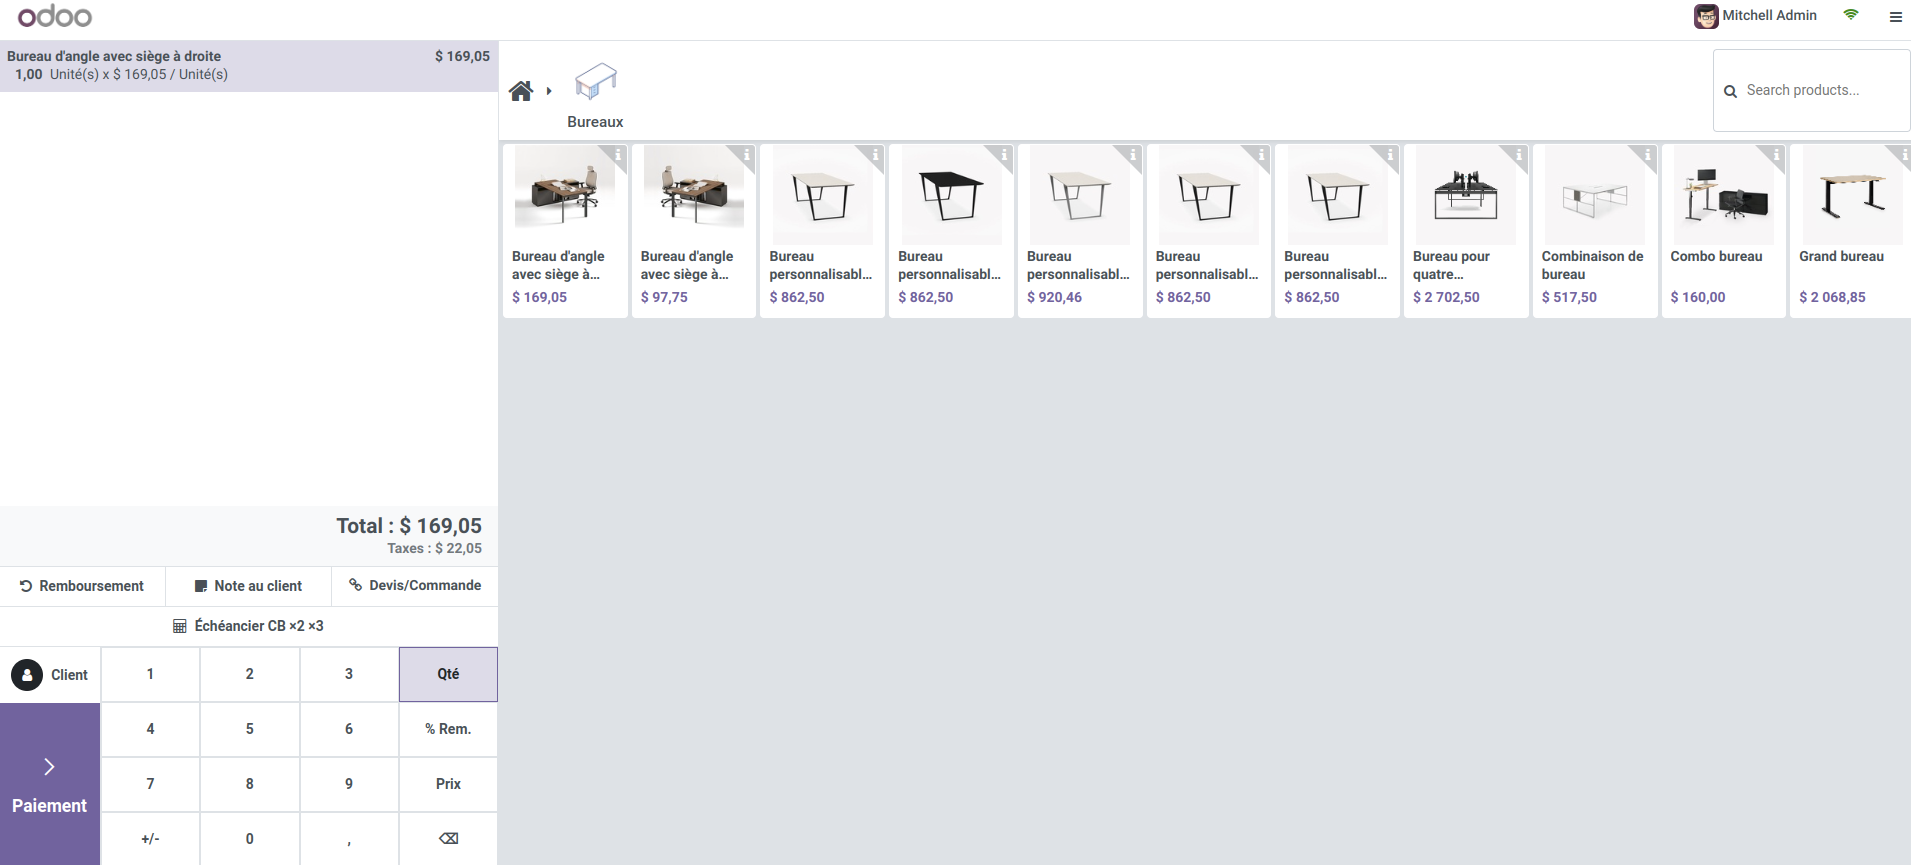
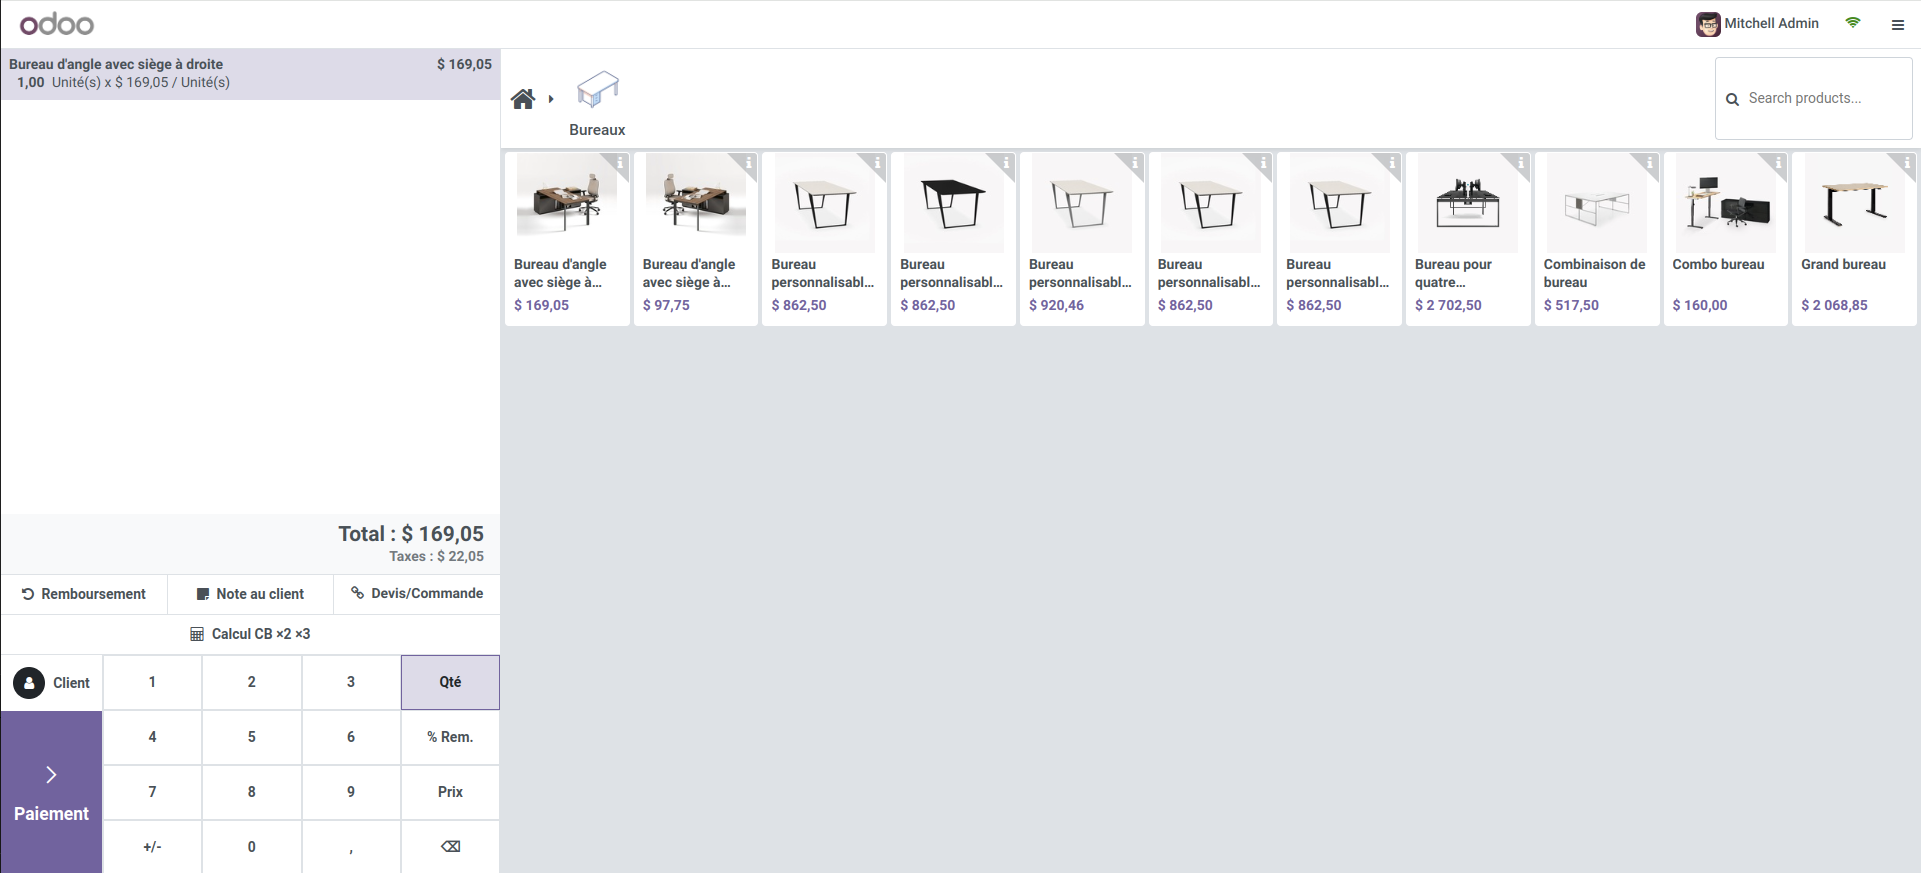
v1.0

diff --git a/README.md b/README.md
@@ -68,6 +68,9 @@ sequenceDiagram
 ![Bouton Ouvrir Calcul Echéancier](static/pos02.png)
 *Le bouton "Calcul CB X2 X3" ajouté par l'extension*
 
+![Champs Calcul Echéancier](static/pos03.png)
+*Le champs "Calcul CB X2 X3" ajouté par l'extension*
+
 ## 🔍 Débogage
 
 1. Ouvrez la console développeur (F12)
